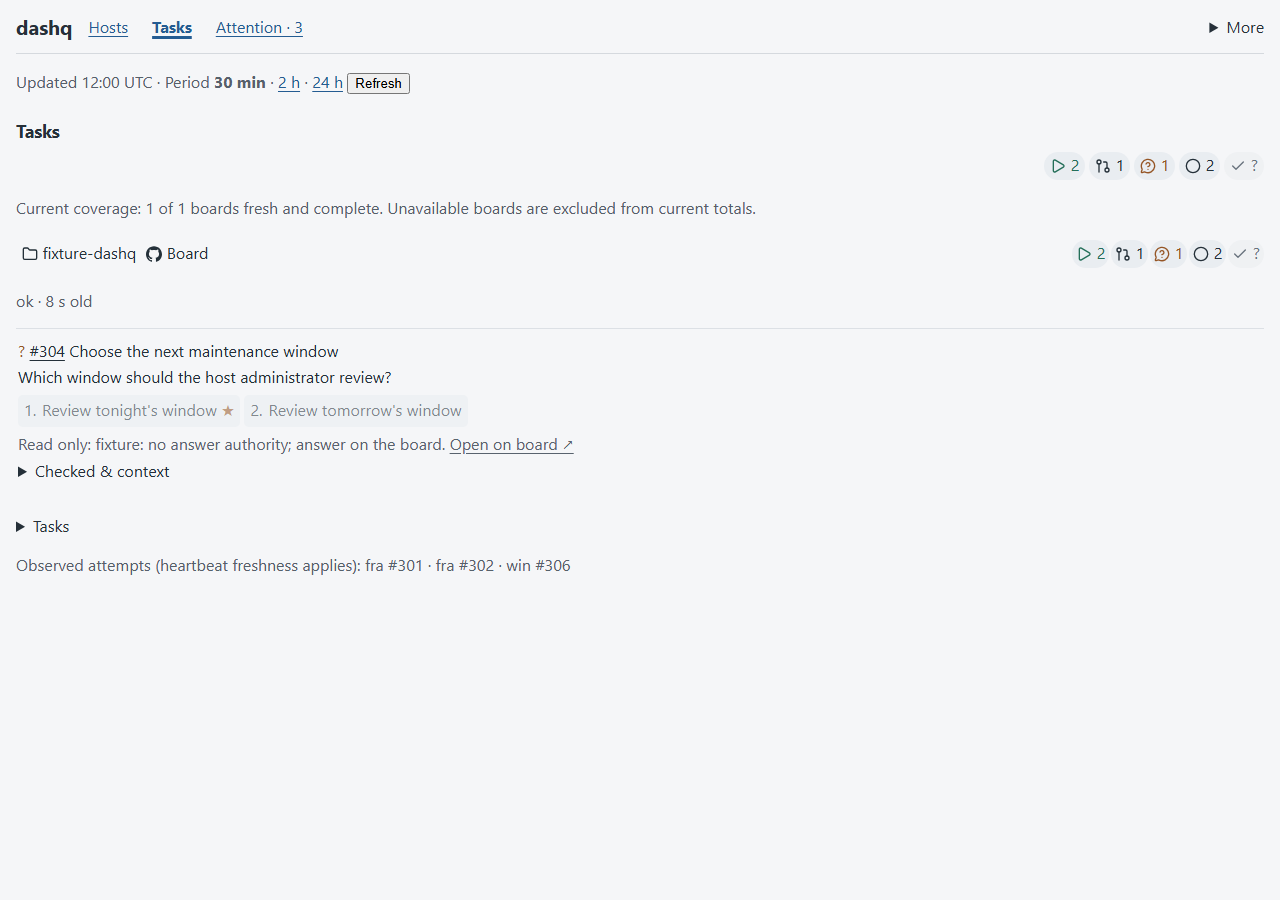
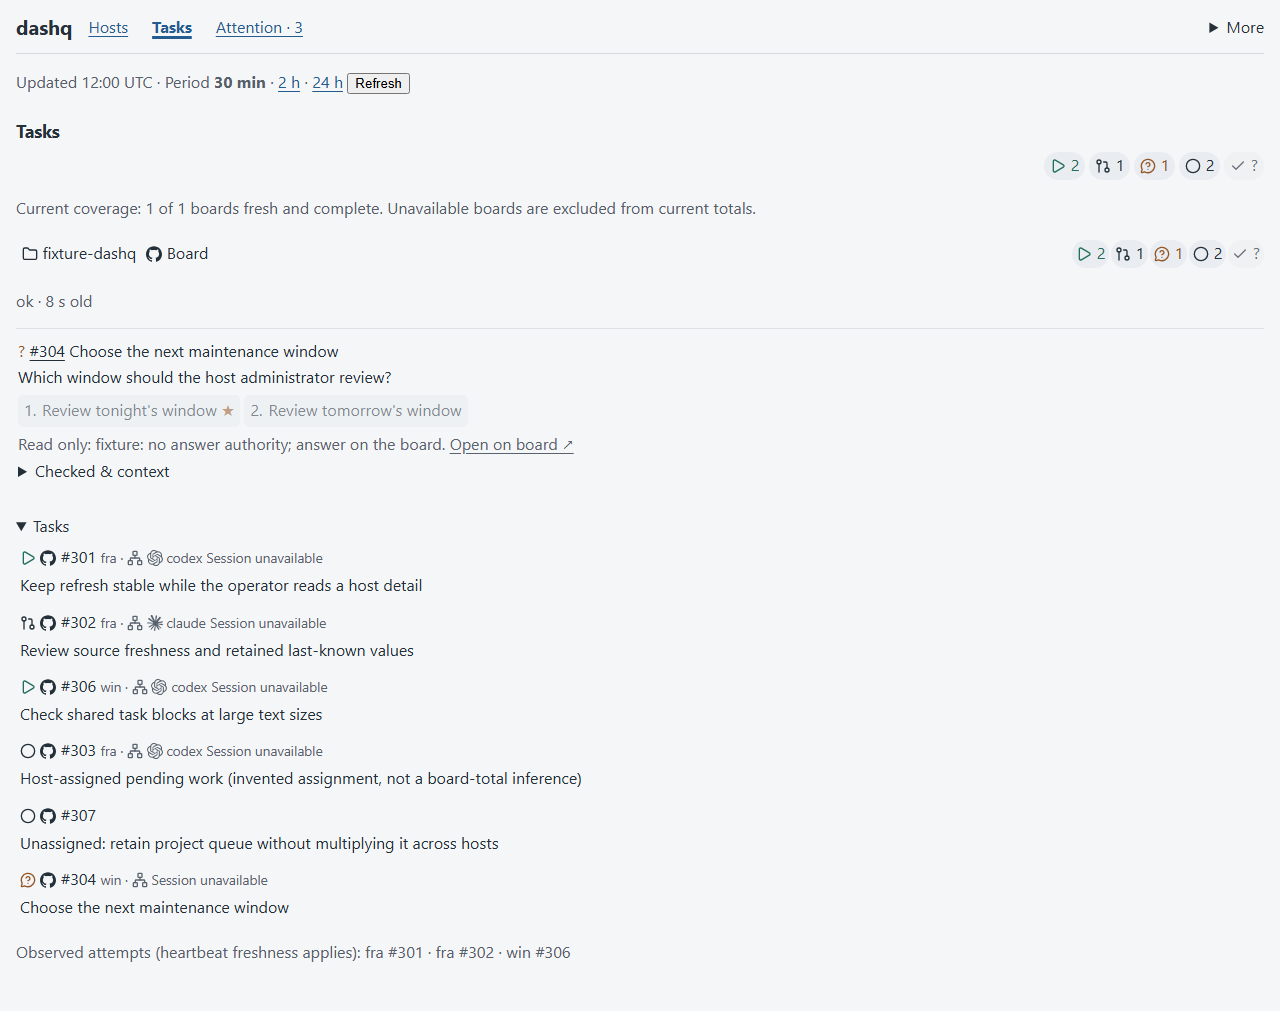
fix: keep dashboard evidence with its host and current filters
Task: https://github.com/taskqorg/dashq/issues/170

diff --git a/fixture/page.html b/fixture/page.html
@@ -10,7 +10,7 @@
 <body data-view="/">
 <header>
 <h1>dashq</h1>
-<nav id="views" aria-label="Dashboard views"><a id="view-home" data-view-inherit data-view-link href="/?period=1800">Hosts</a> <a id="view-projects" data-view-inherit data-view-link href="/projects?period=1800">Tasks</a> <a id="attention-link" data-view-link href="/?period=1800#attention">Attention · 4</a></nav>
+<nav id="views" aria-label="Dashboard views"><a id="view-home" data-view-inherit data-view-link href="/?period=1800">Hosts</a> <a id="view-projects" data-view-inherit data-view-link href="/projects?period=1800">Tasks</a> <a id="attention-link" data-view-inherit data-view-link href="/?period=1800#attention">Attention · 4</a></nav>
 <details id="more"><summary>More</summary><div><a id="view-hosts" data-view-inherit data-view-link href="/hosts?period=1800">Host detail</a> <a id="view-agents" data-view-inherit data-view-link href="/agents?period=1800">Agents</a> <a id="view-services" data-view-inherit data-view-link href="/services?period=1800">Services</a> <a id="view-checks" data-view-inherit data-view-link href="/checks?period=1800">Checks</a> <a id="view-integrations" data-view-inherit data-view-link href="/integrations?period=1800">Connections</a> <a href="/connect">Connect a service</a>
 <a href="https://langfuse.example.com/project/p1/traces">Langfuse traces</a> <a href="https://langfuse.example.com/project/p1/dashboards">Langfuse dashboards</a>
 </div></details></header><main id="main"><p id="view-unavailable" class="note" hidden>No observations available for this view. <a href="/?period=1800">Return to overview</a>.</p>

diff --git a/assets/boards.js b/assets/boards.js
@@ -81,7 +81,7 @@ function renderBoards() {
     }
     const tasks = document.createElement('details');
     tasks.id = wrap.id + '-tasks';
-    tasks.open = open.get(tasks.id) || (boardFilter && (!boardFilter.project || boardFilter.project === p.id));
+    tasks.open = open.has(tasks.id) ? open.get(tasks.id) : index === 0;
     const summary = document.createElement('summary');
     summary.textContent = 'Tasks' + (boardFilter && (!boardFilter.project || boardFilter.project === p.id) ? ' · ' + boardFilter.state : '');
     tasks.append(summary);
@@ -166,6 +166,10 @@ else document.addEventListener('click', e => {
   TaskqProjectBlocks.handle(e, {
     open: url => location.assign(url),
     project: id => { boardFilter = null; renderBoards(); const d = document.getElementById(boardId(id) + '-tasks'); d.open = true; d.querySelector('summary').focus(); },
-    tasks: (project, state) => { boardFilter = {project, state}; renderBoards(); document.querySelector('#boards details[open] summary')?.focus(); }
+    tasks: (project, state) => {
+      boardFilter = {project, state}; renderBoards();
+      document.querySelectorAll('#boards details[id$="-tasks"]').forEach(d => { if (!project || d.id === boardId(project) + '-tasks') d.open = true; });
+      document.querySelector('#boards details[open] summary')?.focus();
+    }
   });
 });

diff --git a/src/page.rs b/src/page.rs
@@ -80,7 +80,7 @@ pub fn render(doc: &Value, links: &Value) -> String {
     let w = &mut h;
     let _ = write!(w, "<!doctype html>\n<html lang=\"en\">\n<head>\n<meta charset=\"utf-8\">\n<meta name=\"viewport\" content=\"width=device-width, initial-scale=1\">\n<title>dashq</title>\n<link rel=\"stylesheet\" href=\"/style.css\">\n<script src=\"/app.js\" defer></script>\n</head>\n<body data-view=\"/\">\n<header>\n<h1>dashq</h1>\n");
     let nav = VIEWS[..2].iter().map(|(path, name)| format!("<a id=\"view-{}\" data-view-inherit data-view-link href=\"{path}{}\">{name}</a>", if *path == "/" { "home" } else { "projects" }, esc(&query))).collect::<Vec<_>>().join(" ");
-    let _ = writeln!(w, "<nav id=\"views\" aria-label=\"Dashboard views\">{nav} <a id=\"attention-link\" data-view-link href=\"/{}#attention\">Attention · {action_count}</a></nav>", esc(&query));
+    let _ = writeln!(w, "<nav id=\"views\" aria-label=\"Dashboard views\">{nav} <a id=\"attention-link\" data-view-inherit data-view-link href=\"/{}#attention\">Attention · {action_count}</a></nav>", esc(&query));
     let more = VIEWS[2..].iter().map(|(path, name)| format!("<a id=\"view-{}\" data-view-inherit data-view-link href=\"{path}{}\">{name}</a>", path.trim_start_matches('/'), esc(&query))).collect::<Vec<_>>().join(" ");
     let _ = writeln!(w, "<details id=\"more\"><summary>More</summary><div>{more} <a href=\"/connect\">Connect a service</a>");
     if !base.is_empty() { let _ = writeln!(w, "<a href=\"{}\">Langfuse traces</a> <a href=\"{}\">Langfuse dashboards</a>", text(&links["traces"]), text(&links["dashboards"])); }
@@ -783,11 +783,12 @@ fn trend(points: &[Value], to: u64, f: &dyn Fn(&Value) -> Option<f64>, label: &s
 fn host_grid(w: &mut String, doc: &Value, now: u64) {
     let mut hosts = doc["hosts"].as_array().cloned().unwrap_or_default();
     for r in doc["resources"]["rows"].as_array().into_iter().flatten() {
-        if !hosts.iter().any(|h| h["id"] == r["host"]) {
+        if !hosts.iter().any(|h| h["id"].as_str().zip(r["host"].as_str()).is_some_and(|(a,b)| a.eq_ignore_ascii_case(b))) {
             hosts.push(json!({"id": r["host"], "freshness": r["source"], "agentq": {"installation": r["installation"]}}));
         }
     }
-    let query = |path: &str, id: &str| format!("{path}?period={}&host={}", doc["period"].as_u64().unwrap_or(1800), enc(id));
+    let extra: String = ["agent", "session"].iter().filter_map(|k| doc["filters"][*k].as_str().map(|v| format!("&{k}={}", enc(v)))).collect();
+    let query = |path: &str, id: &str| format!("{path}?period={}&host={}{extra}", doc["period"].as_u64().unwrap_or(1800), enc(id));
     let unknown = |why: &str| format!("<span class=\"unknown\" tabindex=\"0\" title=\"Unknown: {}\" aria-label=\"Unknown: {}\">?</span>", esc(why), esc(why));
     let _ = writeln!(w, "<section id=\"host-grid\"><h2>Hosts</h2><div class=\"grid-head\" aria-hidden=\"true\"><span>Host · observation</span><span>Services · update state</span><span>Client sign-in</span><span>CPU</span><span>RAM</span><span>Disk</span><span>Tasks</span></div>");
     if hosts.is_empty() { let _ = writeln!(w, "<p>No host observations received. <a data-view-link href=\"/projects\">Open Tasks</a>.</p>"); }
@@ -812,8 +813,11 @@ fn host_grid(w: &mut String, doc: &Value, now: u64) {
         let _ = writeln!(w, "</div><div class=\"cell products\"><span class=\"label\">Services · update state</span>");
         for (product, label, v, source) in [("taskq", "TaskQ", &h["taskq"]["version"], &h["taskq"]), ("agentq", "AgentQ", &h["agentq"]["running"], f), ("serverq", "ServerQ", &Value::Null, &h["serverq"])] {
             let installation = h[product]["installation"].as_str();
-            let vr = doc["versions"]["rows"].as_array().into_iter().flatten().find(|r| r["product"] == product && r["connection"] != "revoked" &&
-                (installation.is_some_and(|i| r["installation"] == i) || r["host"].as_str().is_some_and(|x| x.eq_ignore_ascii_case(id))));
+            let vr = doc["versions"]["rows"].as_array().into_iter().flatten().filter(|r| r["product"] == product && r["connection"] != "revoked" &&
+                !r["reason"].as_str().is_some_and(|s| s.starts_with("superseded by ")) &&
+                (v.is_null() || r["running"]["version"] == *v) &&
+                installation.map_or_else(|| r["host"].as_str().is_some_and(|x| x.eq_ignore_ascii_case(id)), |i| r["installation"] == i))
+                .max_by_key(|r| r["observation"]["at"].as_u64());
             let version = if v.is_null() { vr.map(|r| &r["running"]["version"]).unwrap_or(v) } else { v };
             let obs = vr.map(|r| &r["observation"]).unwrap_or(source);
             let update = vr.and_then(|r| r["update"]["state"].as_str()).unwrap_or("unknown");
@@ -1015,6 +1019,27 @@ mod tests {
             std::fs::write(dir.join("page.html"), render(&example, &json!({}))).unwrap();
             std::fs::write(dir.join("data.json"), example.to_string()).unwrap();
         }
+    }
+
+    /// H6/H7/D18: a superseded installation cannot supply the owner's update state or observation time.
+    #[test]
+    fn review_version_owner_evidence() {
+        let mut d = crate::fixture_doc();
+        d["versions"]["rows"] = json!([
+            {"product":"agentq","host":"fra/native","installation":"old","running":{"version":"0.4.0"},"observation":{"reason":"wrong installation evidence"},"update":{"state":"available"}},
+            {"product":"agentq","host":"fra/native","installation":"inst-fra","running":{"version":"0.5.0"},"observation":{"reason":"owner evidence"},"update":{"state":"current"}}]);
+        let mut html = String::new();
+        host_grid(&mut html, &d, d["generated_at"].as_u64().unwrap());
+        assert!(!html.contains("wrong installation evidence"));
+        assert!(html.contains("owner evidence") && html.contains("version current"));
+        d["versions"]["rows"][1]["running"]["version"] = json!("0.6.0");
+        let mut mixed = String::new(); host_grid(&mut mixed, &d, 0);
+        assert!(!mixed.contains("owner evidence"),"another version receipt cannot qualify the displayed running version");
+        let variant = d["resources"]["rows"][0].clone();
+        d["resources"]["rows"].as_array_mut().unwrap().push(variant);
+        d["resources"]["rows"][2]["host"] = json!("FRA/native");
+        let mut html = String::new(); host_grid(&mut html, &d, 0);
+        assert_eq!(html.matches("class=\"host\"").count(),3,"case variants cannot add a host");
     }
 
     /// F1/F6: the approved #169 scenario through the real renderer; unsupported probes stay unknown.

diff --git a/src/data.rs b/src/data.rs
@@ -220,8 +220,12 @@ impl Machines {
     fn of(&self, r: &Value) -> Option<String> {
         let name = aq(r, "host.name").as_str().filter(|h| safe(h, 64, b"_.-"))?;
         let rt = aq(r, "agentq.runtime");
+        Some(self.runtime(name, rt.as_str().unwrap_or("")))
+    }
+
+    fn runtime(&self, name: &str, rt: &str) -> String {
         let wsl = rt == "wsl" || (rt == "linux" && self.windows.contains(&name.to_ascii_lowercase()));
-        Some(self.id(name, if wsl { "wsl" } else { "native" }))
+        self.id(name, if wsl { "wsl" } else { "native" })
     }
 }
 
@@ -709,7 +713,14 @@ pub fn build(inp: &Value) -> Value {
     }
 
     // Resources (D4.4): enrolled history first, Langfuse samples otherwise; a stale or missing sample is a gap.
-    let mut resources = crate::resource::build(&rows("agentq.resource"), capped("agentq.resource"), &inp["enrolled_resources"], now, period, fhost);
+    let mut resources = crate::resource::build(&rows("agentq.resource"), capped("agentq.resource"), &inp["enrolled_resources"], now, period, None);
+    for r in resources["rows"].as_array_mut().into_iter().flatten() {
+        r["host"] = fleet.iter().find(|f| f["installation"] == r["installation"]).map_or_else(|| {
+            let name = r["host"].as_str().unwrap_or("").split('/').next().unwrap_or("");
+            json!(machines.runtime(name, r["runtime"].as_str().unwrap_or("")))
+        }, |f| f["host"].clone());
+    }
+    resources["rows"].as_array_mut().unwrap().retain(|r| fhost.is_none_or(|h| r["host"].as_str().is_some_and(|id| id.eq_ignore_ascii_case(h))));
     if lf_src["state"] == "unconfirmed" {
         for r in resources["rows"].as_array_mut().into_iter().flatten().filter(|r| r["provenance"] == "langfuse") {
             r["source"]["state"] = json!("unconfirmed");
@@ -874,6 +885,21 @@ pub fn all_failed(doc: &Value) -> bool {
 
 #[cfg(test)]
 mod tests {
+    /// D8/H1: WSL resources use the same installation identity as the canonical host, including filtered entry.
+    #[test]
+    fn review_resource_runtime_identity() {
+        let fixture: serde_json::Value = serde_json::from_str(include_str!("../fixture/hosts.json")).unwrap();
+        let mut inp = fixture["input"].clone();
+        let now = inp["now"].as_u64().unwrap();
+        inp["langfuse"]["value"]["agentq.resource"] = serde_json::json!([{"id":"r-wsl","startTime":crate::source::iso(now-10),"metadata":{
+            "attributes.agentq.installation":"inst-wsl","attributes.host.name":"desktop","attributes.agentq.runtime":"linux","attributes.agentq.resource.cpu_percent":33}}]);
+        for filter in [serde_json::json!({}),serde_json::json!({"host":"DESKTOP/wsl"})] {
+            inp["filters"] = filter;
+            let d = super::build(&inp);
+            assert_eq!(d["resources"]["rows"][0]["host"],"DESKTOP/wsl");
+            assert_eq!(d["resources"]["rows"].as_array().unwrap().len(),1);
+        }
+    }
     use super::*;
 
     /// H2: producer verification time must survive the enrolled read-to-page path.

diff --git a/docs/design/host-first-runtime.md b/docs/design/host-first-runtime.md
@@ -30,6 +30,16 @@ Before: `cargo test --locked host_first_actions_and_unknowns` failed with `hosts
 
 `tests/host-first-browser.cjs` checks 24 width/text/theme/view cells and navigation/direct-answer/host-scope behavior. Existing startup, resource, findings and limits browser chains run against their new destinations; their draft, outage, authority and receipt protections remain. CI runs the new check using the existing browser setup; publication acceptance remains merge-result CI, or private exact-SHA fallback (R12/§ 7).
 
+Frozen review found three implementation defects, corrected within this task:
+
+| Defect before | Retained regression / after |
+|---|---|
+| Linux/WSL resources became `desktop/native` instead of `DESKTOP/wsl`; case variants could add rows. | `review_resource_runtime_identity` failed on that value, then passed for unfiltered and host-filtered entry. Data normalizes through H1's shared runtime/installation mapping before filtering; grid identity is case-insensitive. |
+| A superseded version row supplied the selected installation's update state/time. | `review_version_owner_evidence` failed on `wrong installation evidence`, then passed. Exact owner/version-compatible evidence wins; incompatible receipts cannot qualify the displayed version. |
+| Persistent Attention header returned to its initial period/host filter. | Frozen `6d95e5c` header reproduced `period=1800` after selecting 86400; the runtime browser check now retains period/host/agent/session. |
+
+The Tasks capture also exposed an initially collapsed first board. First entry now shows its shared rows; explicit disclosures survive refresh, and selecting counters opens the requested rows. Existing draft/outage checks remain.
+
 TaskQ-owned gaps have these concrete handoff task names:
 
 1. **Publish shared browser task workspace and controls for DashQ** — versioned tray-compatible detail/menu API, capabilities, expected revisions, operation IDs, receipts, fixtures and release hashes. Start, Stop, Later, Close and Retry cannot be imitated here; ordinary answers and released resource controls keep their existing gates.
